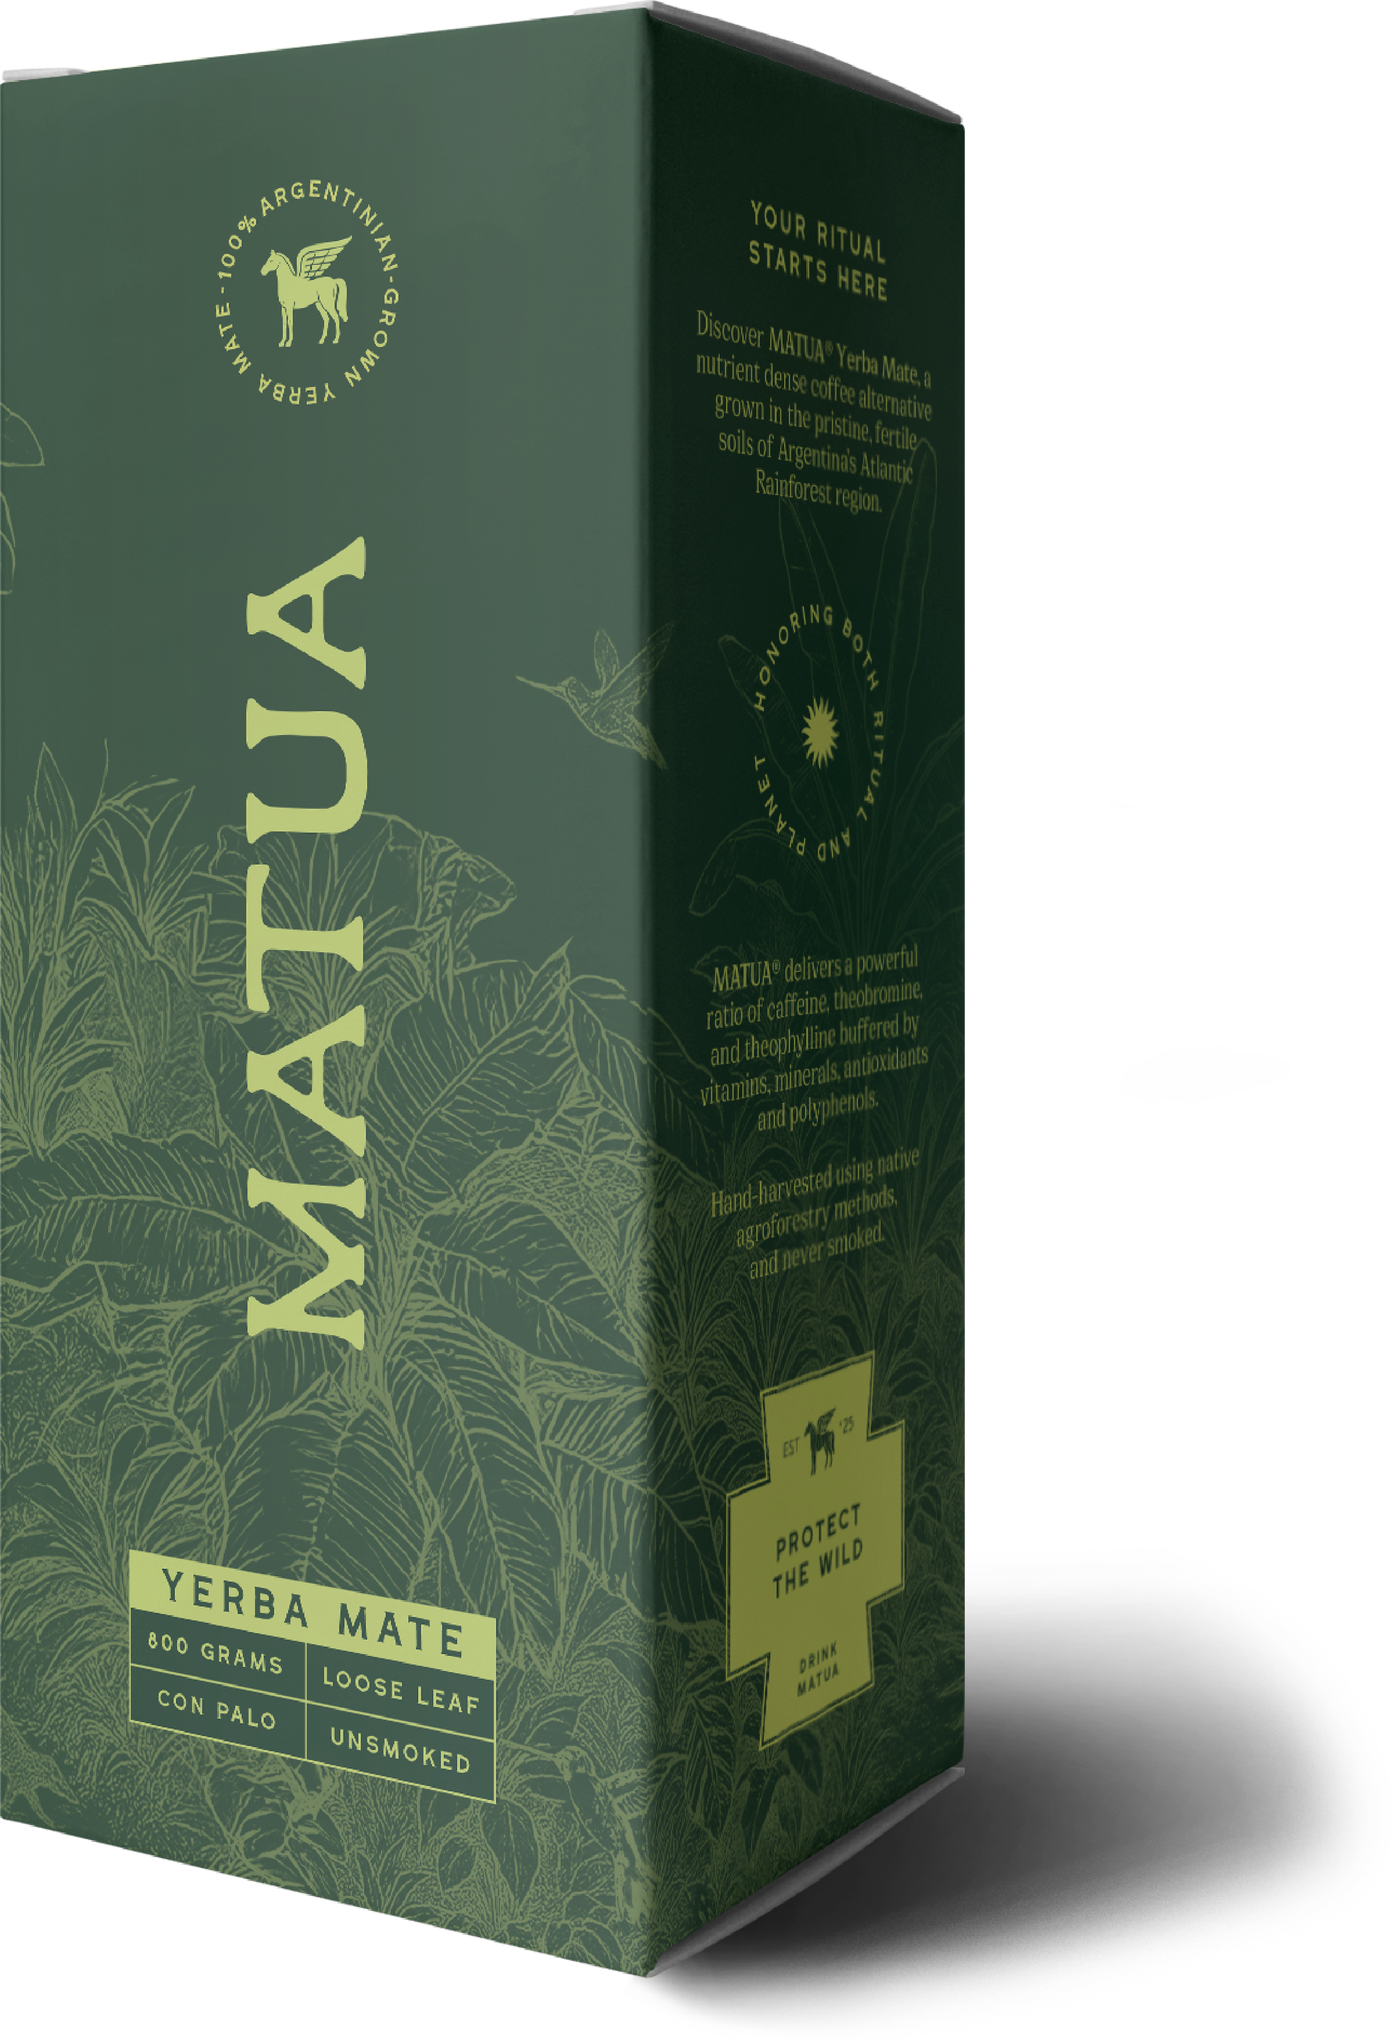
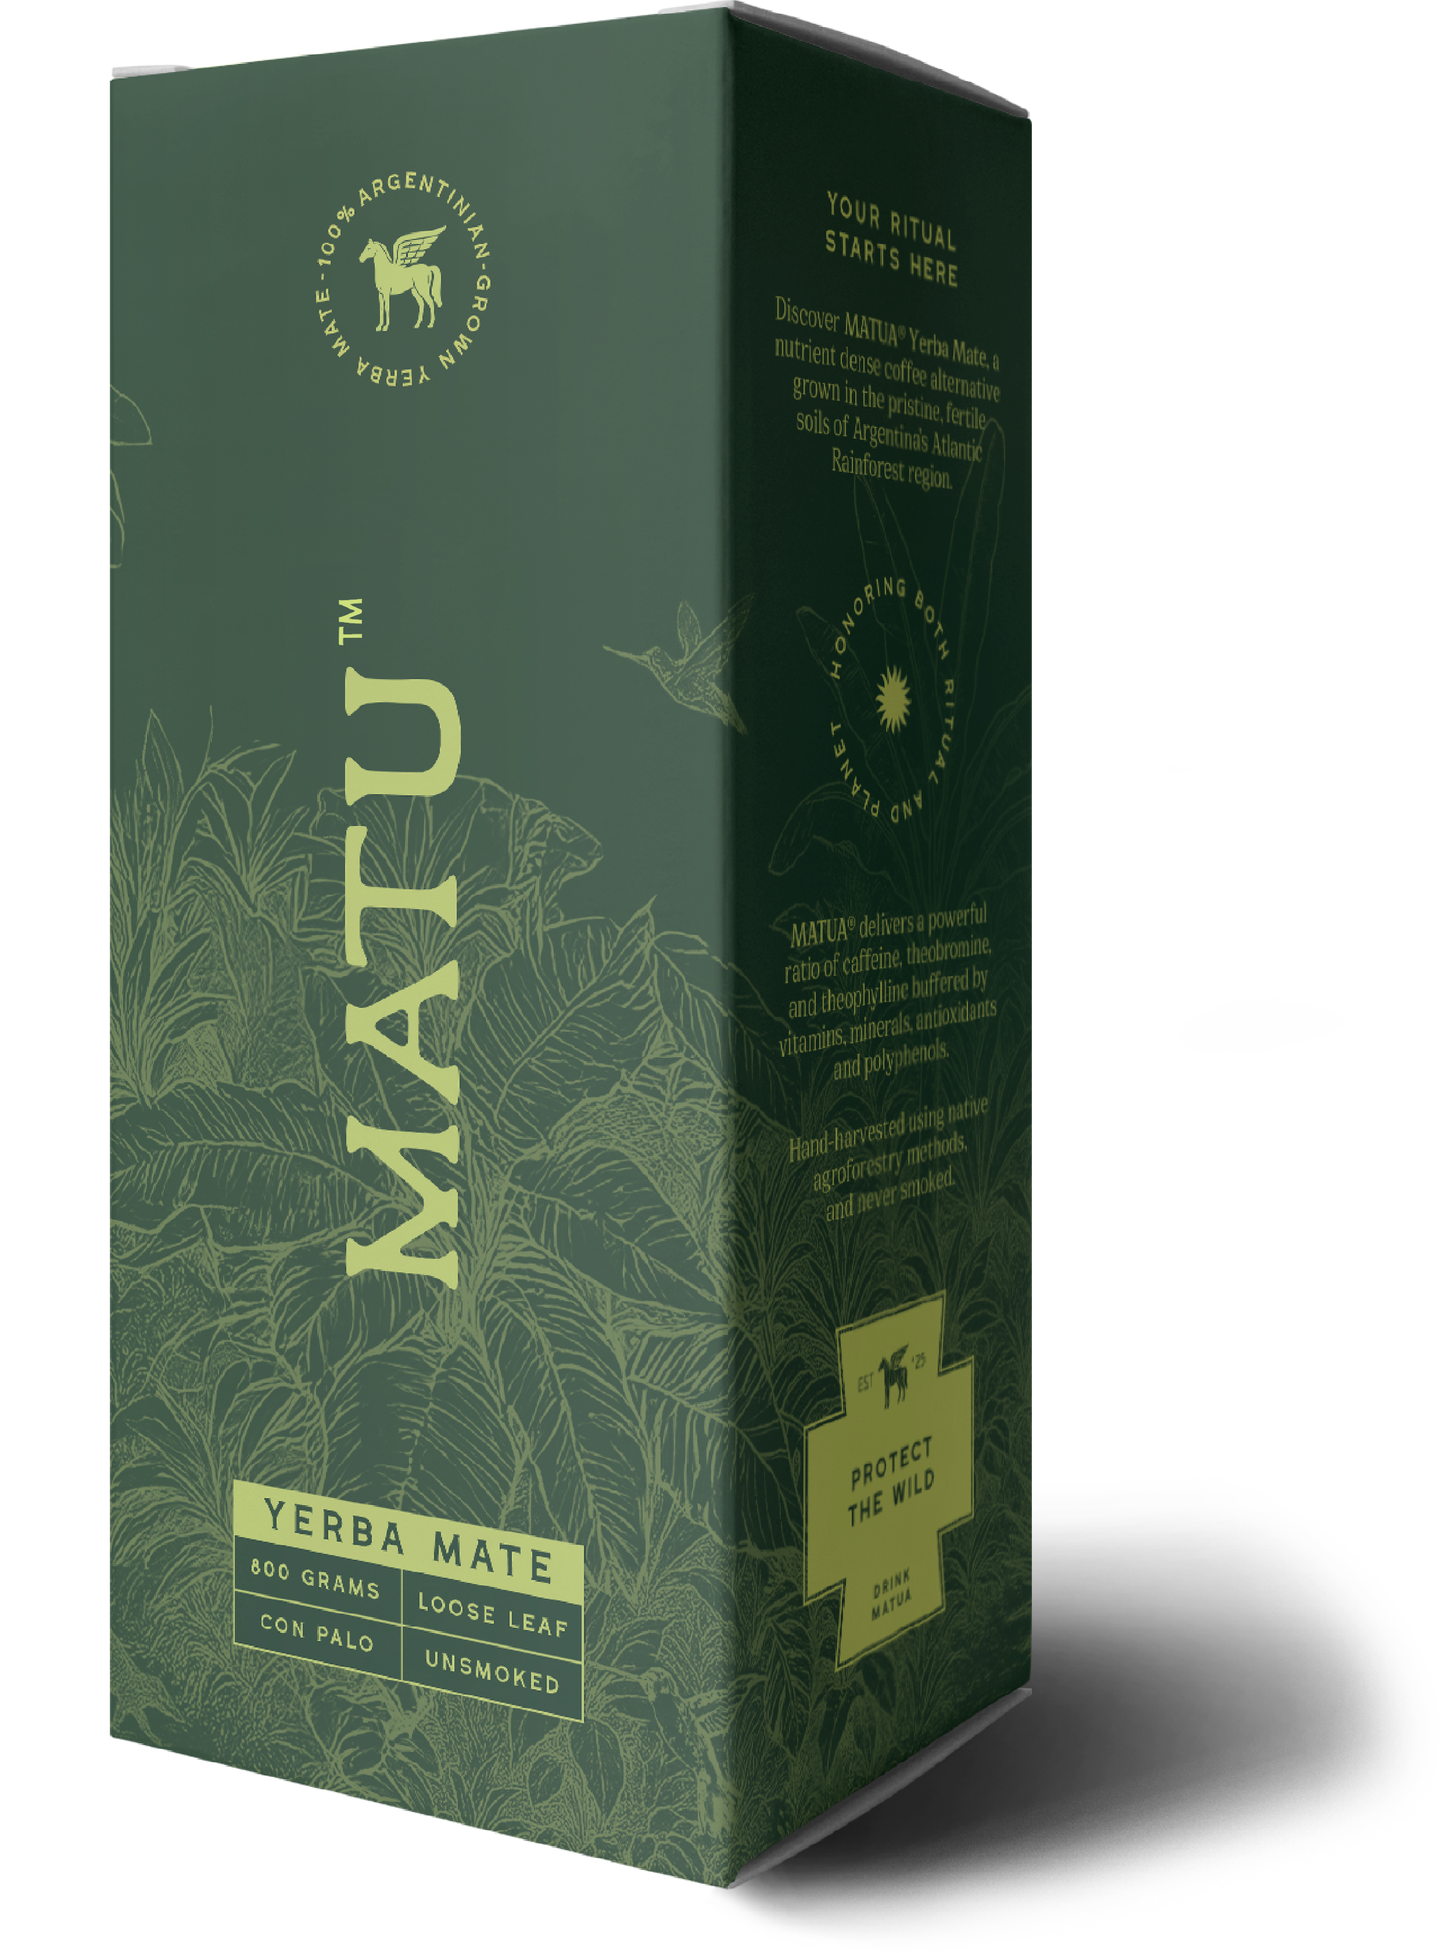
nuevos hoy 28 julio

diff --git a/matu-web/src/components/Footer.jsx b/matu-web/src/components/Footer.jsx
@@ -11,12 +11,30 @@ export default function Footer() {
       {/* ---- floating shop panel, it overlaps the newsletter band ---- */}
       <div
         data-reveal="up"
-        className="group/cta relative z-20 mb-12 overflow-hidden rounded-xl bg-lime p-6 lg:absolute lg:left-[72rem] lg:top-[-6.25rem] lg:mb-0 lg:h-[20.5625rem] lg:w-[44rem] lg:overflow-visible lg:rounded-[1.06rem] lg:p-0"
+        className="group/cta relative z-20 mb-12 overflow-hidden rounded-xl bg-lime p-6 text-center lg:absolute lg:left-[72rem] lg:top-[-6.25rem] lg:mb-0 lg:h-[20.5625rem] lg:w-[44rem] lg:overflow-visible lg:rounded-[1.06rem] lg:p-0 lg:text-left"
       >
         <Star
           className="spin-slow size-[1rem] lg:absolute lg:left-[2.25rem] lg:top-[2.875rem] lg:size-[1.875rem]"
           color="var(--color-ink)"
         />
+
+        {/* On the phone the panel reads top-down — pack, then title, then the
+            action. Source order only matters there: on the artboard all three
+            are placed absolutely, so the measured coordinates take over. */}
+        <div
+          data-reveal="enter-right"
+          style={{ '--d': '320ms' }}
+          className="pointer-events-none mx-auto mt-3 aspect-[4/3] w-[34%] overflow-hidden lg:absolute lg:mx-0 lg:mt-0 lg:aspect-auto lg:w-[24.0625rem] lg:overflow-visible lg:left-[20.4375rem] lg:top-[-3.6rem] lg:max-w-none"
+        >
+          {/* the pack is nearly square, so on the phone it is cropped to a 4:3
+              window on its middle band — the wordmark stays, the panel loses the
+              height the full frame was costing it */}
+          <img
+            src="/img/tin-can-2.webp"
+            alt="MATU yerba mate tins"
+            className="size-full object-cover transition-transform duration-[1100ms] ease-[cubic-bezier(0.16,1,0.3,1)] group-hover/cta:-translate-y-[0.9rem] group-hover/cta:scale-[1.03] lg:h-auto lg:w-full lg:object-contain"
+          />
+        </div>
 
         <SplitLines
           as="h2"
@@ -28,26 +46,14 @@ export default function Footer() {
 
         <a
           href="#shop"
-          className="btn-sweep mt-5 inline-flex h-9 items-center justify-center bg-ink px-5 text-[0.9rem] text-lime transition-colors duration-500 hover:text-ink lg:absolute lg:left-[2.5rem] lg:top-[15.125rem] lg:mt-0 lg:h-[2.875rem] lg:w-[9.8125rem] lg:px-0 lg:text-[1.9125rem]"
+          className="btn-sweep mt-4 inline-flex h-9 items-center justify-center bg-ink px-5 text-[0.9rem] text-lime transition-colors duration-500 hover:text-ink lg:absolute lg:left-[2.5rem] lg:top-[15.125rem] lg:mt-0 lg:h-[2.875rem] lg:w-[9.8125rem] lg:px-0 lg:text-[1.9125rem]"
           style={{ '--btn-fill': 'var(--color-cream)' }}
         >
           SHOP NOW
         </a>
-
-        <div
-          data-reveal="enter-right"
-          style={{ '--d': '320ms' }}
-          className="pointer-events-none mt-6 w-[70%] lg:absolute lg:left-[20.4375rem] lg:top-[-3.6rem] lg:mt-0 lg:w-[24.0625rem] lg:max-w-none"
-        >
-          <img
-            src="/img/tin-can-2.webp"
-            alt="MATU yerba mate tins"
-            className="w-full transition-transform duration-[1100ms] ease-[cubic-bezier(0.16,1,0.3,1)] group-hover/cta:-translate-y-[0.9rem] group-hover/cta:scale-[1.03]"
-          />
-        </div>
       </div>
 
-      <nav className="flex flex-wrap gap-x-8 gap-y-3 lg:absolute lg:left-[14.5313rem] lg:top-[1.3831rem] lg:gap-[3.75rem]">
+      <nav className="flex flex-wrap justify-center gap-x-8 gap-y-3 lg:absolute lg:left-[14.5313rem] lg:top-[1.3831rem] lg:justify-start lg:gap-[3.75rem]">
         {FOOTER_NAV.map((item, i) => (
           <a
             key={item.label}
@@ -64,12 +70,12 @@ export default function Footer() {
       <div
         data-reveal="up"
         style={{ '--d': '180ms' }}
-        className="mt-12 lg:absolute lg:left-[16.25rem] lg:top-[11.125rem] lg:mt-0"
+        className="mt-12 text-center lg:absolute lg:left-[16.25rem] lg:top-[11.125rem] lg:mt-0 lg:text-left"
       >
         <Pegasus
           label="MATU"
           color="var(--color-lime)"
-          className="h-[5rem] w-[5.25rem] lg:h-[9.5rem] lg:w-[10rem]"
+          className="h-[5rem] w-[5.35rem] lg:h-[9.5rem] lg:w-[10.15rem]"
         />
       </div>
     </footer>

diff --git a/matu-web/src/components/WhyMatu.jsx b/matu-web/src/components/WhyMatu.jsx
@@ -67,29 +67,36 @@ export default function WhyMatu() {
       </div>
 
       {/* ---- rainforest plate + circular seal ---- */}
-      <div className="relative bg-cream px-6 pb-16 lg:bg-transparent lg:px-0 lg:pb-0">
-        {/* the plate bleeds off the right half of the band, no inset frame */}
-        <div
-          data-reveal="clip"
-          style={{ '--curtain': 'var(--color-cream)' }}
-          className="relative overflow-hidden rounded-2xl lg:absolute lg:right-0 lg:top-0 lg:h-[67.5rem] lg:w-[60rem] lg:rounded-none"
-        >
+      {/* the plate runs edge to edge on the phone — no padding at all, so the
+          cream wrapper collapses onto the photo and shows no band around it */}
+      <div className="relative bg-cream lg:bg-transparent">
+        {/* On small screens the seal has to hug the photo: pinned to the band it
+            drifted off the top corner and got clipped. `lg:static` hands the
+            desktop coordinates back to the band, where they were measured. */}
+        <div className="relative lg:static">
+          {/* the plate bleeds off the right half of the band, no inset frame */}
+          <div
+            data-reveal="clip"
+            style={{ '--curtain': 'var(--color-cream)' }}
+            className="relative overflow-hidden lg:absolute lg:right-0 lg:top-0 lg:h-[67.5rem] lg:w-[60rem]"
+          >
+            <img
+              src="/img/selva.webp"
+              alt="Sunlight breaking through the palms of the Atlantic Rainforest"
+              loading="lazy"
+              className="clip-zoom size-full object-cover"
+            />
+          </div>
+          {/* Centred on the plate: it spans 60-120rem across and the full 67.5rem
+              band, so the seal (square, 22rem) sits at 79 / 22.9rem. It reads white
+              over the photo — the artwork is dark, so it is knocked out rather than
+              shipped as a second file. */}
           <img
-            src="/img/selva.webp"
-            alt="Sunlight breaking through the palms of the Atlantic Rainforest"
-            loading="lazy"
-            className="clip-zoom size-full object-cover"
+            src="/img/circular-symbol.webp"
+            alt="Cleanest sip from soil to straw"
+            className="spin-slow absolute left-1/2 top-1/2 w-[9rem] -translate-x-1/2 -translate-y-1/2 brightness-0 invert lg:left-[79rem] lg:top-[22.9rem] lg:w-[22rem] lg:max-w-none lg:translate-x-0 lg:translate-y-0"
           />
         </div>
-        {/* Centred on the plate: it spans 60-120rem across and the full 67.5rem
-            band, so the seal (square, 22rem) sits at 79 / 22.9rem. It reads white
-            over the photo — the artwork is dark, so it is knocked out rather than
-            shipped as a second file. */}
-        <img
-          src="/img/circular-symbol.webp"
-          alt="Cleanest sip from soil to straw"
-          className="spin-slow absolute left-6 top-[-1.75rem] w-[5rem] brightness-0 invert lg:left-[79rem] lg:top-[22.9rem] lg:w-[22rem] lg:max-w-none"
-        />
       </div>
     </section>
   )

diff --git a/matu-web/src/components/CleanestSip.jsx b/matu-web/src/components/CleanestSip.jsx
@@ -24,7 +24,7 @@ export default function CleanestSip() {
         as="h2"
         lines={HEAD}
         step={125}
-        className="relative z-10 max-w-[9ch] text-[clamp(3.25rem,7.5vw,6.4rem)] leading-[0.86] text-lime lg:absolute lg:left-[13.7563rem] lg:top-[12.1947rem] lg:max-w-none lg:text-[9rem] lg:leading-[7.6rem] lg:tracking-[-0.002em]"
+        className="relative z-10 mx-auto max-w-[9ch] text-center text-[clamp(3.25rem,7.5vw,6.4rem)] leading-[0.86] text-lime lg:absolute lg:mx-0 lg:max-w-none lg:text-left lg:left-[13.7563rem] lg:top-[12.1947rem] lg:text-[9rem] lg:leading-[7.6rem] lg:tracking-[-0.002em]"
       />
 
       <SplitLines
@@ -32,14 +32,14 @@ export default function CleanestSip() {
         lines={BODY}
         delay={260}
         step={90}
-        className="relative z-10 mt-8 max-w-[34ch] text-[clamp(1.05rem,2vw,1.5rem)] leading-[1.35] text-white lg:absolute lg:left-[14.1563rem] lg:top-[42.1632rem] lg:mt-0 lg:max-w-none lg:text-[2.575rem] lg:leading-[2.6875rem]"
+        className="relative z-10 mx-auto mt-8 max-w-[34ch] text-center text-[clamp(1.05rem,2vw,1.5rem)] leading-[1.35] text-white lg:absolute lg:mx-0 lg:max-w-none lg:text-left lg:left-[14.1563rem] lg:top-[42.1632rem] lg:mt-0 lg:text-[2.575rem] lg:leading-[2.6875rem]"
       />
 
       {/* three nested wrappers on purpose: the scroll parallax, the entrance and
           the idle drift each own a transform and would otherwise fight */}
       <div
         data-parallax="-86"
-        className="parallax relative z-0 mx-auto mt-10 w-[78%] lg:absolute lg:left-[65.32rem] lg:top-[-3.4625rem] lg:mt-0 lg:w-[67.72rem] lg:max-w-none"
+        className="parallax relative z-0 mx-auto mt-10 w-[58%] lg:absolute lg:left-[65.32rem] lg:top-[-3.4625rem] lg:mt-0 lg:w-[67.72rem] lg:max-w-none"
       >
         <div data-reveal="enter-right" style={{ '--d': '240ms' }}>
           <div className="drift-slow">

diff --git a/matu-web/src/components/GrownWithin.jsx b/matu-web/src/components/GrownWithin.jsx
@@ -22,10 +22,15 @@ export default function GrownWithin() {
         className="text-center text-[clamp(2.6rem,7.2vw,6rem)] leading-[1.02] tracking-[0.023em] lg:absolute lg:inset-x-0 lg:top-[7.2rem] lg:text-[6.7rem] lg:leading-[6.67rem]"
       />
 
-      <Star
-        className="spin-slow mx-auto mt-8 block size-[2rem] lg:absolute lg:left-[57.3125rem] lg:top-[44.19rem] lg:mx-0 lg:mt-0 lg:size-[4.25rem]"
-        color="var(--color-ink)"
-      />
+      {/* `Star` is an inline-block, so `mx-auto` never centred it — it needs the
+          text-align of a wrapper. The wrapper stays static, so the artboard
+          coordinates below still resolve against the section. */}
+      <div className="mt-8 text-center lg:mt-0">
+        <Star
+          className="spin-slow size-[2rem] lg:absolute lg:left-[57.3125rem] lg:top-[36.5rem] lg:size-[4.25rem]"
+          color="var(--color-ink)"
+        />
+      </div>
 
       {/* column rules grow down from the star */}
       <span

diff --git a/matu-web/src/components/Pegasus.jsx b/matu-web/src/components/Pegasus.jsx
@@ -1,7 +1,7 @@
 /**
- * The MATU winged horse, lifted out of `CRUZ MATU.svg` into `pegaso.svg` so the
- * mark can stand on its own. Drawn as a mask, like `Star`, so it takes any
- * colour instead of shipping one file per background.
+ * The MATU winged horse (`pegaso.svg`, the line-art version of the mark). Drawn
+ * as a mask, like `Star`: the artwork ships with its own lime baked in, and the
+ * mask normalises it to the site token so it matches the nav sitting above it.
  */
 export default function Pegasus({ className = '', color = 'currentColor', label, style }) {
   return (

diff --git a/matu-web/index.html b/matu-web/index.html
@@ -2,7 +2,9 @@
 <html lang="en">
   <head>
     <meta charset="UTF-8" />
-    <link rel="icon" type="image/webp" href="/img/logo.webp" />
+    <link rel="icon" type="image/svg+xml" href="/favicon.svg" />
+    <!-- webp icons are patchy outside Chromium, so the SVG leads and this is the fallback -->
+    <link rel="alternate icon" type="image/webp" href="/img/logo.webp" />
     <meta name="viewport" content="width=device-width, initial-scale=1.0" />
     <title>MATU — Protect the Wild · Argentine Yerba Mate</title>
     <meta

diff --git a/matu-web/src/components/HealthBenefits.jsx b/matu-web/src/components/HealthBenefits.jsx
@@ -76,7 +76,7 @@ export default function HealthBenefits() {
             key={item.title}
             data-reveal="up"
             style={{ '--d': `${i * 130}ms` }}
-            className="group relative aspect-square @container w-full max-w-[19rem] lg:size-[17.25rem] lg:max-w-none"
+            className="group relative aspect-square @container w-full max-w-[15rem] lg:size-[17.25rem] lg:max-w-none"
           >
             <GaugeCircle
               from={item.arc.from}

diff --git a/matu-web/src/components/Shop.jsx b/matu-web/src/components/Shop.jsx
@@ -58,7 +58,7 @@ export default function Shop() {
       <SplitLines
         as="h2"
         lines={['BUILD YOUR RITUAL']}
-        className="text-center text-[clamp(2.5rem,7vw,5.6rem)] leading-none tracking-[0.009em] lg:absolute lg:inset-x-0 lg:top-[3.7183rem] lg:text-[8.4rem]"
+        className="text-center text-[clamp(2.2rem,5.6vw,4.5rem)] leading-none tracking-[0.009em] lg:absolute lg:inset-x-0 lg:top-[3.7183rem] lg:text-[6.7rem]"
       />
 
       <SplitLines

diff --git a/matu-web/README.md b/matu-web/README.md
@@ -34,7 +34,7 @@ La página renderizada mide 11837 px de alto contra los 11833 px del PDF, y los 
 texto caen dentro de ±3 px de sus posiciones originales.
 
 **Excepción deliberada.** Tres titulares se bajaron un 15% respecto al artboard por pedido
-del cliente: *BUILD YOUR RITUAL* (9.8875 → 8.4rem), *The cleanest sip…* (10.575 → 9rem,
+del cliente: *BUILD YOUR RITUAL* (9.8875 → 6.7rem, en dos pasos), *The cleanest sip…* (10.575 → 9rem,
 interlínea proporcional), *GROWN WITHIN THE FOREST…* (12.2188 → **6.7rem**, en dos pasos) y
 *BENEATH THE CANOPY…* (8.6062 → 6.45rem). Conservan su ancla `top`, así que el resto de
 cada sección no se movió. En el último la
@@ -109,16 +109,22 @@ dos piezas que no estaban en esa carpeta y se exportaron del PDF:
 
 ### Cambio de marca: MATUA → MATU
 
-El render nuevo del envase (`tin-can.webp`, 27-07-2026) trae la marca sin la A final —
-también `MATUS TOOLS` en vez de `MATUA'S TOOLS`. Se actualizaron los dos textos del sitio
-que aún decían MATUA (el `alt` del sello en cruz y el copy de *unsmoked* en `data.js`).
+Los renders nuevos del envase traen la marca sin la A final — también `MATUS TOOLS` en vez
+de `MATUA'S TOOLS`. Se actualizaron los dos textos del sitio que aún decían MATUA (el `alt`
+del sello en cruz y el copy de *unsmoked* en `data.js`).
 
-> **Pendiente.** Estas piezas siguen mostrando **MATUA** y no hay versión nueva de ellas:
-> `box-can.webp` (producto *SET BOX*, wordmark grande y tres menciones en el costado),
-> `tin-can-2.webp` (producto *TIN CAN* y el panel *YOUR RITUAL IS WAITING* del pie) y
-> `cruz-matu.svg`, cuyo *DRINK MATUA* está trazado como contornos —no hay `<text>`—, así
-> que no se puede corregir editando el archivo. Hasta que lleguen los reemplazos, la
-> tienda, el pie y el sello en cruz conviven con la marca vieja.
+Reemplazos hechos, los dos con dimensiones idénticas al archivo viejo, así que entraron sin
+recolocar nada:
+
+| archivo | dónde se ve |
+| --- | --- |
+| `tin-can.webp` (27-07) | la lata grande de *The cleanest sip* |
+| `tin-can-2.webp` (28-07, era `TIN CAN_1.webp`) | producto *TIN CAN* y el panel *YOUR RITUAL IS WAITING* |
+| `fondo3.webp` (28-07, era `FONDO3 (1).webp`) | la plancha con el marco ornamentado de la seccion de la fundadora |
+
+> **Pendiente.** Siguen mostrando **MATUA**: `box-can.webp` (producto *SET BOX*, wordmark
+> grande y tres menciones en el costado) y `cruz-matu.svg`, cuyo *DRINK MATUA* está trazado
+> como contornos —no hay `<text>`—, así que no se puede corregir editando el archivo.
 
 Assets nuevos (27-07-2026):
 
@@ -154,10 +160,14 @@ esquina, pero es sólo un borde de **1px** semitransparente del export, no un re
   cortada a medida para esta banda —3841×1081 contra 1920×544, misma proporción—, así que
   llena sin recortar; sólo se atenúa a `brightness .82`. El input, su filete y el sol
   acompañan en crema.
-- `pegaso.svg` es el caballo alado **extraído de `cruz-matu.svg`**: dentro de esa cruz el
-  pegaso es un único `<path>`, así que se aisló con su propio `viewBox` y `currentColor`.
-  El componente `Pegasus` lo pinta como máscara —igual que `Star`— para poder teñirlo sin
-  mantener un archivo por fondo. Reemplaza al wordmark en el pie.
+- `pegaso.svg` (28-07, era `LOGO CABALLO.svg`) es el caballo alado de línea, y reemplaza al
+  wordmark en el pie. El componente `Pegasus` lo pinta **como máscara** —igual que `Star`—:
+  el archivo trae su propio lima (`#d9df83`), y la máscara lo normaliza al token del sitio
+  para que case con el nav que tiene encima. La máscara usa el canal alfa, así que el
+  interior hueco del trazo se conserva.
+- `favicon.svg` (28-07, era `FAVICON.svg`) — el pegaso sobre cuadro verde. Va en `public/`,
+  declarado en `index.html`; `logo.webp` queda como `alternate icon` porque los favicon en
+  webp no funcionan fuera de Chromium.
 
 > **Pendiente.** El panel *YOUR RITUAL IS WAITING* sigue usando `tin-can-2.webp`, que
 > muestra **MATUA**. Necesita el render rebrandeado.
